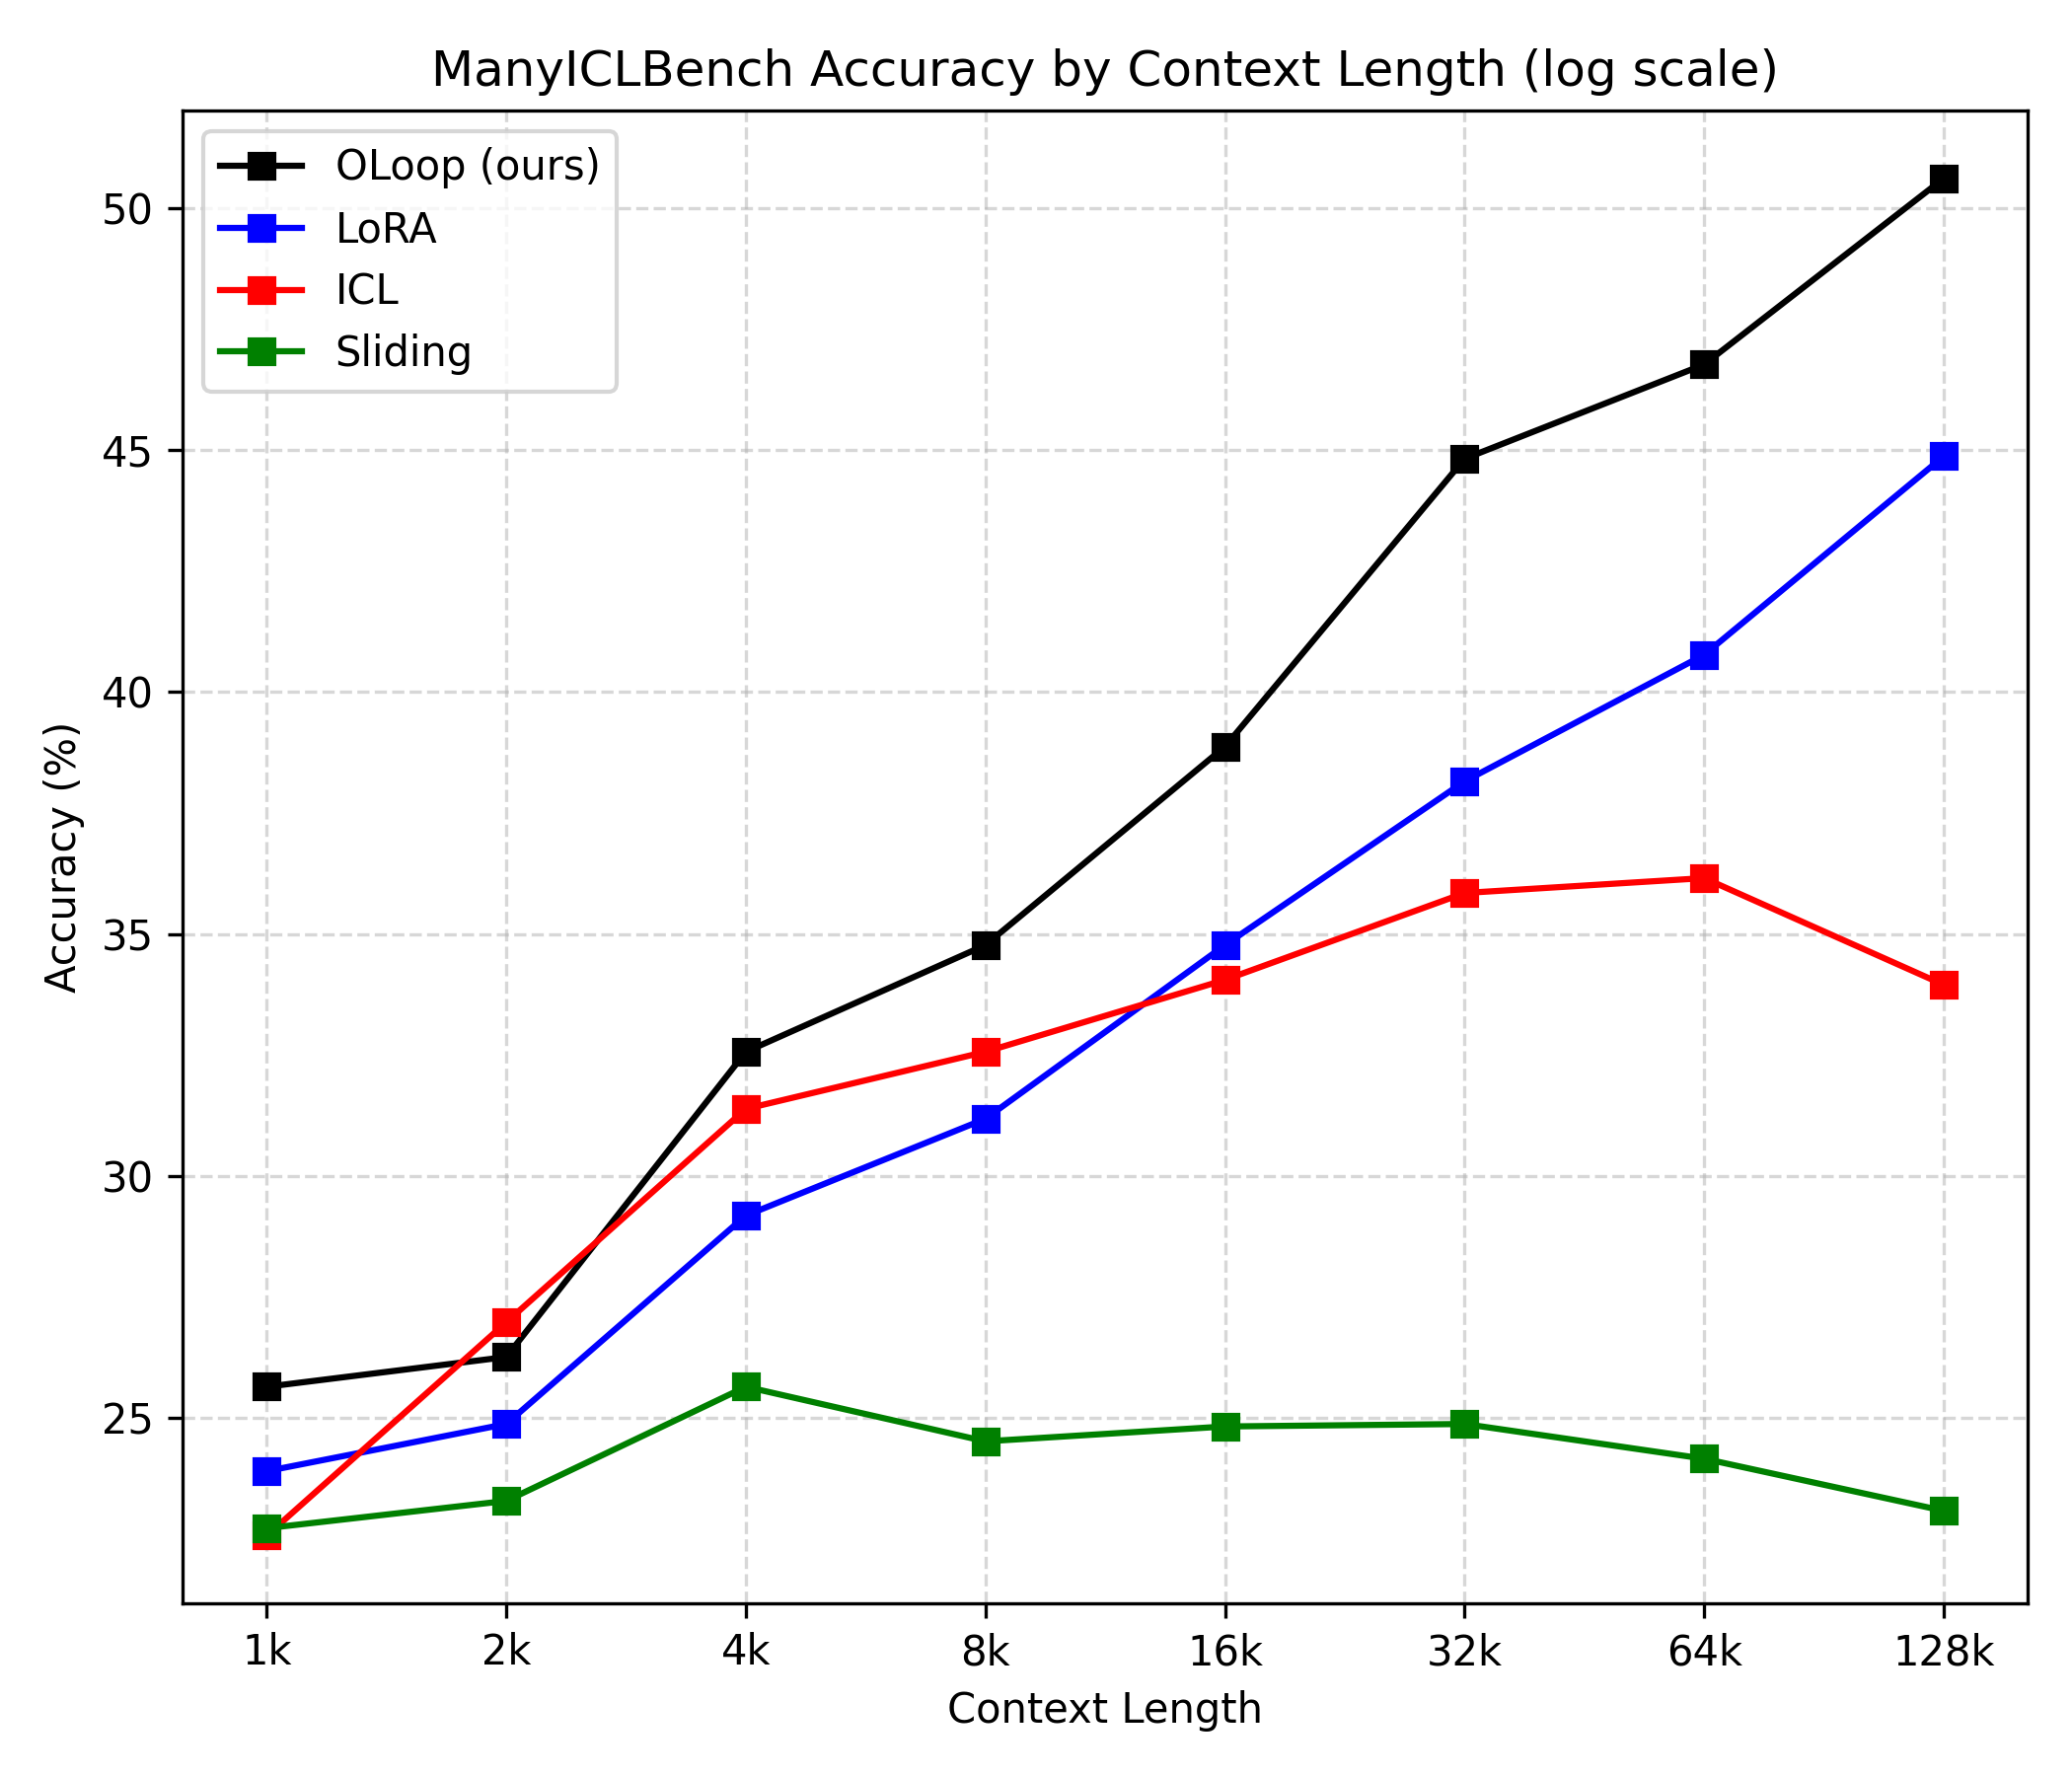
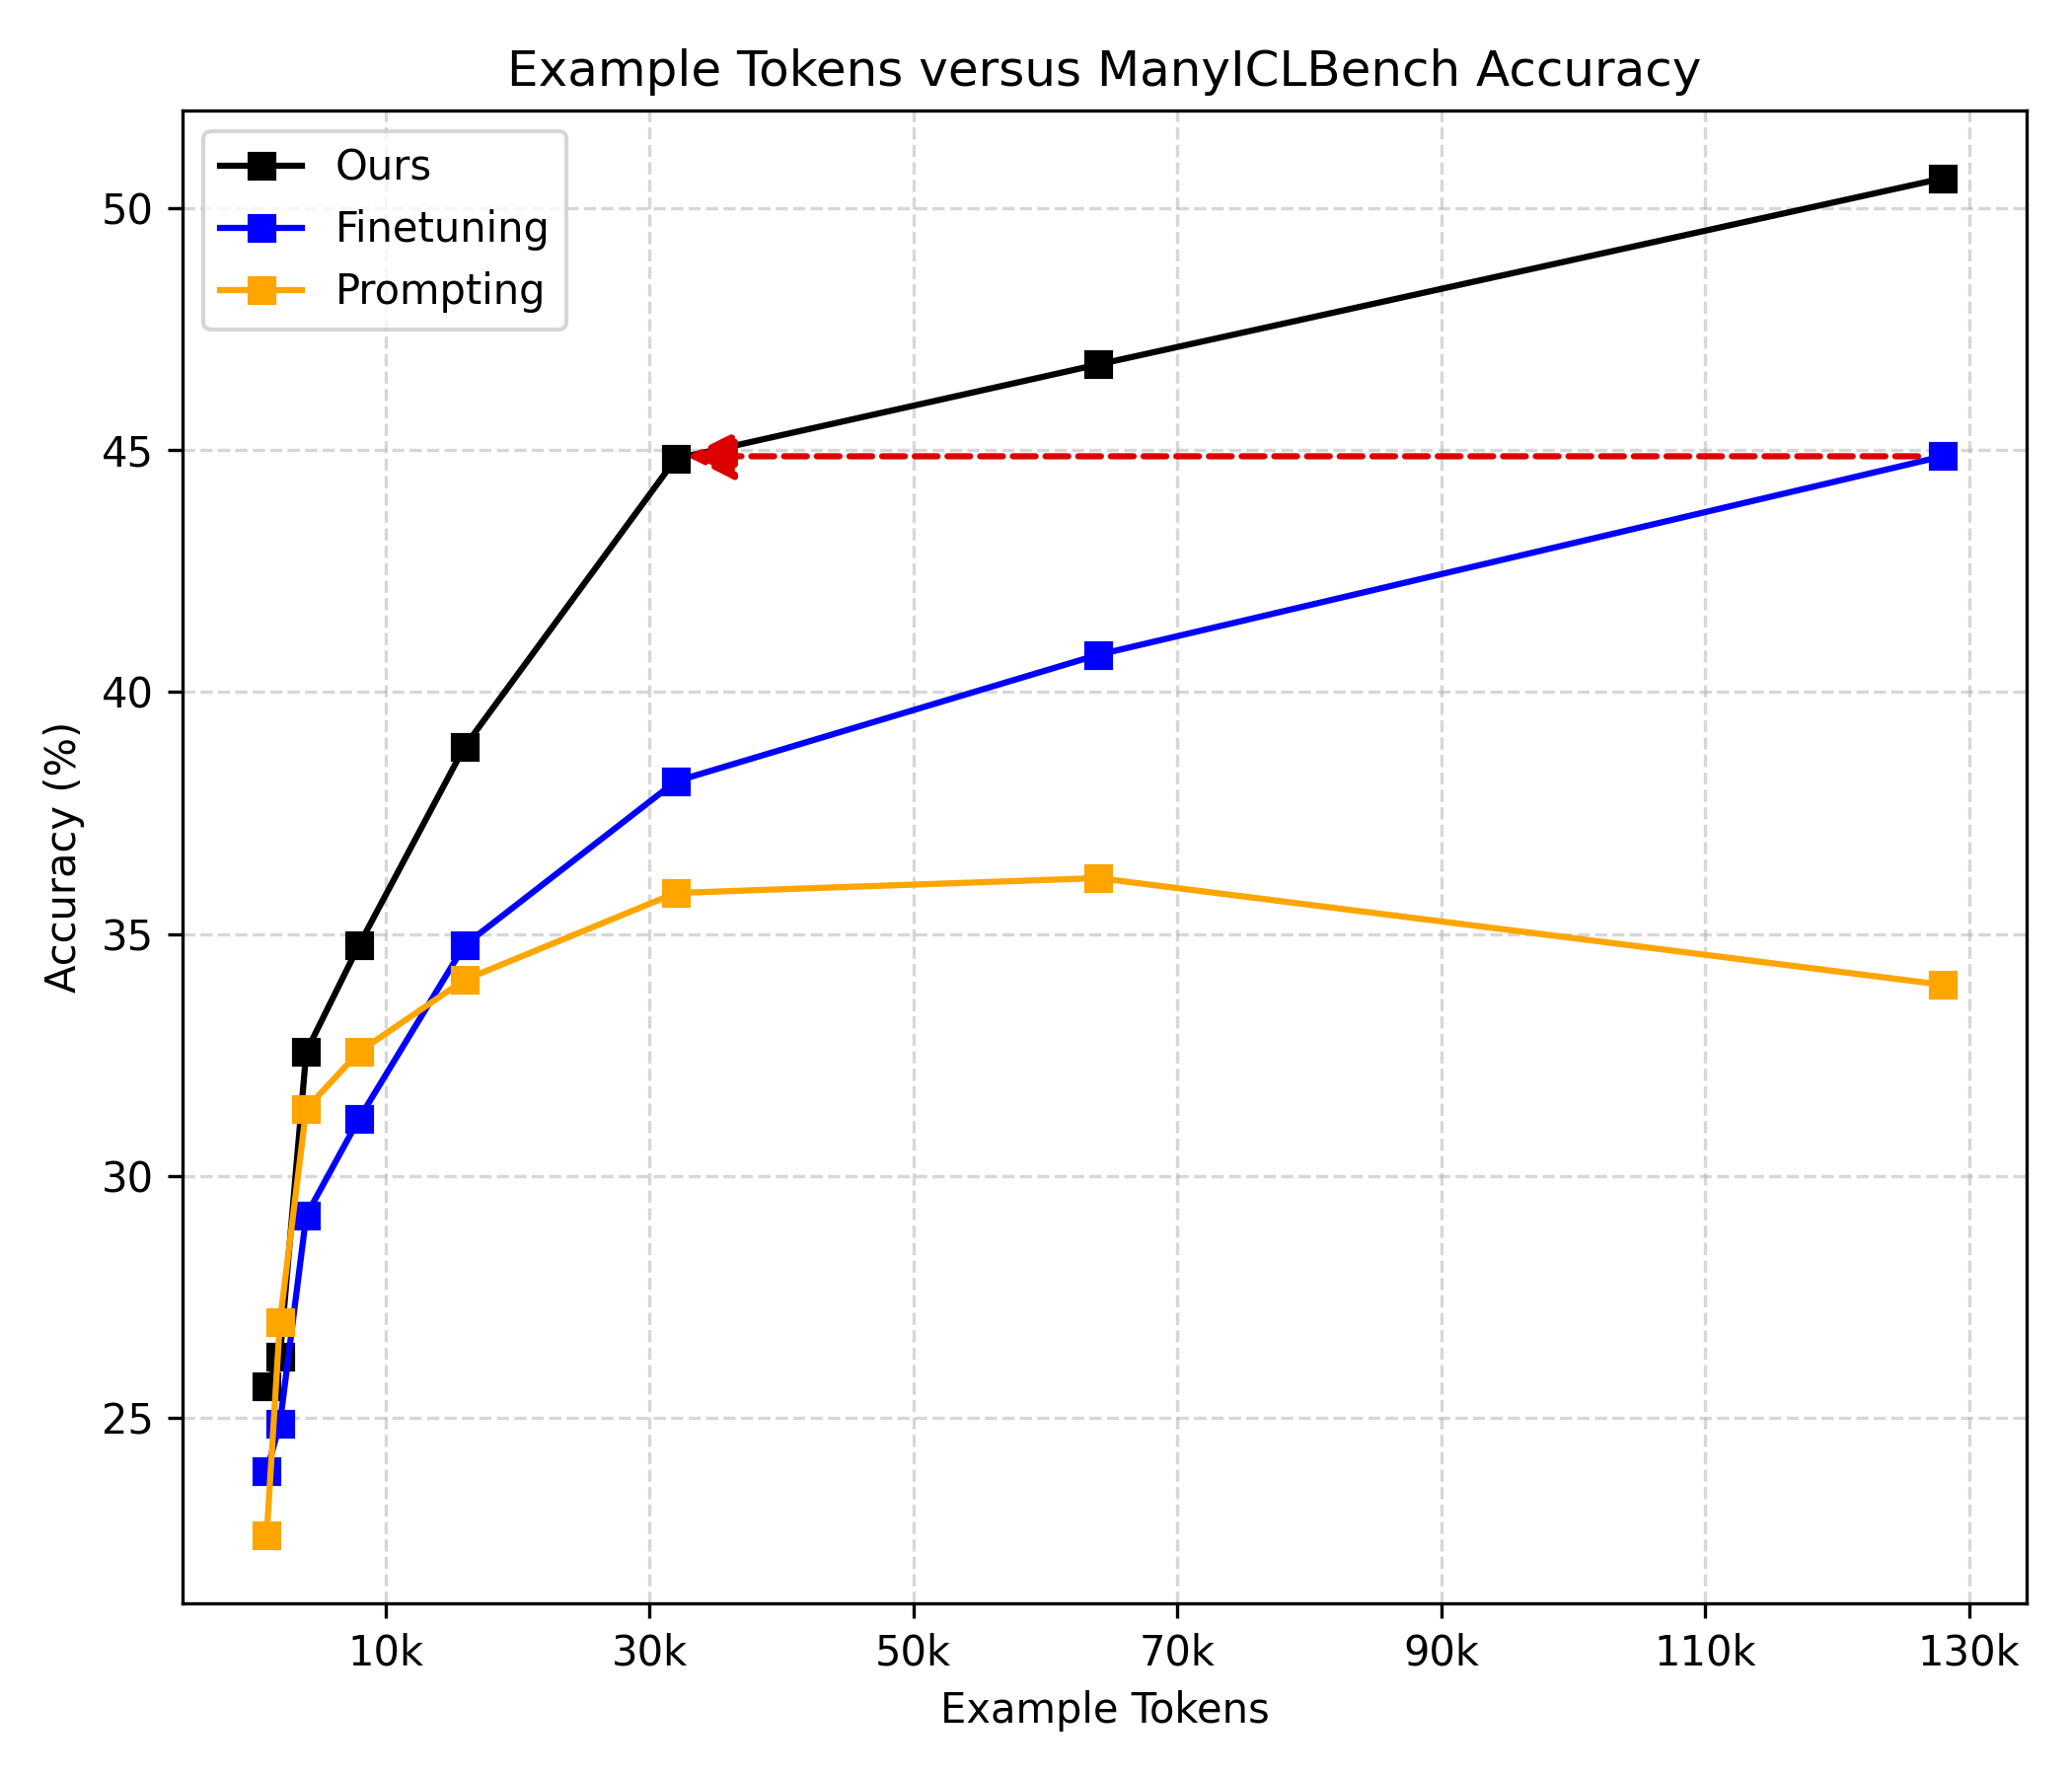
jlkj

diff --git a/src/plot_iclbench.py b/src/plot_iclbench.py
@@ -8,21 +8,21 @@ import matplotlib.pyplot as plt
 from utils import constants
 
 
-RESULTS_DIR = os.path.join(constants.LOCAL_DATA_PATH, "ManyICLBench_results_100_bos")
+RESULTS_DIR = os.path.join(constants.LOCAL_DATA_PATH, "ManyICLBench_results_50")
 
-SAVE_PATH = "iclbench_accuracy_by_context_100_bos.png"
+SAVE_PATH = "iclbench_accuracy_by_context_50.png"
 
 STYLE_MAP = {
-    "OLoop": {"color": "black", "label": "OLoop (ours)"},
-    "LoRA": {"color": "blue", "label": "LoRA"},
-    "LoRA-FT": {"color": "skyblue", "label": "LoRA-FT"},
-    "ICL": {"color": "red", "label": "ICL"},
-    "Sliding": {"color": "green", "label": "Sliding"},
+    "OLoop": {"color": "black", "label": "Ours"},
+    "LoRA": {"color": "blue", "label": "Finetuning"},
+    # "LoRA-FT": {"color": "skyblue", "label": "LoRA-FT"},
+    "ICL": {"color": "orange", "label": "Prompting"},
+    # "Sliding": {"color": "green", "label": "Sliding"},
 }
 
 BASELINE_CONTEXT_LABEL = "128k"
 
-LINEAR = False
+LINEAR = True
 
 
 def context_length_value(name):
@@ -133,6 +133,36 @@ def print_sample_efficiency(lines):
     )
 
 
+def plot_sample_efficiency_arrow(lines):
+    baseline_context = context_length_value(BASELINE_CONTEXT_LABEL)
+    baseline_accuracy = next(
+        point["accuracy"]
+        for point in lines["LoRA"]
+        if point["context_length"] == baseline_context
+    )
+    oloop_context = interpolated_context_for_accuracy(
+        lines["OLoop"],
+        baseline_accuracy,
+    )
+    baseline_accuracy_percent = 100 * baseline_accuracy
+
+    plt.annotate(
+        "",
+        xy=(oloop_context, baseline_accuracy_percent),
+        xytext=(baseline_context, baseline_accuracy_percent),
+        arrowprops={
+            "arrowstyle": "-|>",
+            "mutation_scale": 25,
+            "color": "#DD0000",
+            "linestyle": "--",
+            "linewidth": 1.5,
+            "shrinkA": 6,
+            "shrinkB": 0,
+        },
+        zorder=4,
+    )
+
+
 def plot_results(lines, output_path):
     plt.figure(figsize=(7, 6))
 
@@ -140,6 +170,8 @@ def plot_results(lines, output_path):
         x = [point["context_length"] for point in points]
         y = [100 * point["accuracy"] for point in points]
         plt.plot(x, y, marker="s", **STYLE_MAP[version])
+
+    plot_sample_efficiency_arrow(lines)
 
     all_x = sorted({point["context_length"] for points in lines.values() for point in points})
     labels_by_x = {
@@ -157,9 +189,9 @@ def plot_results(lines, output_path):
         plt.xscale("log", base=2)
         plt.xticks(all_x, [labels_by_x[x] for x in all_x])
 
-    plt.xlabel("Context Length")
+    plt.xlabel("Example Tokens")
     plt.ylabel("Accuracy (%)")
-    plt.title(f"ManyICLBench Accuracy by Context Length ({'linear' if LINEAR else 'log'} scale)")
+    plt.title(f"Example Tokens versus ManyICLBench Accuracy")
     
     plt.grid(True, linestyle="--", alpha=0.5)
     